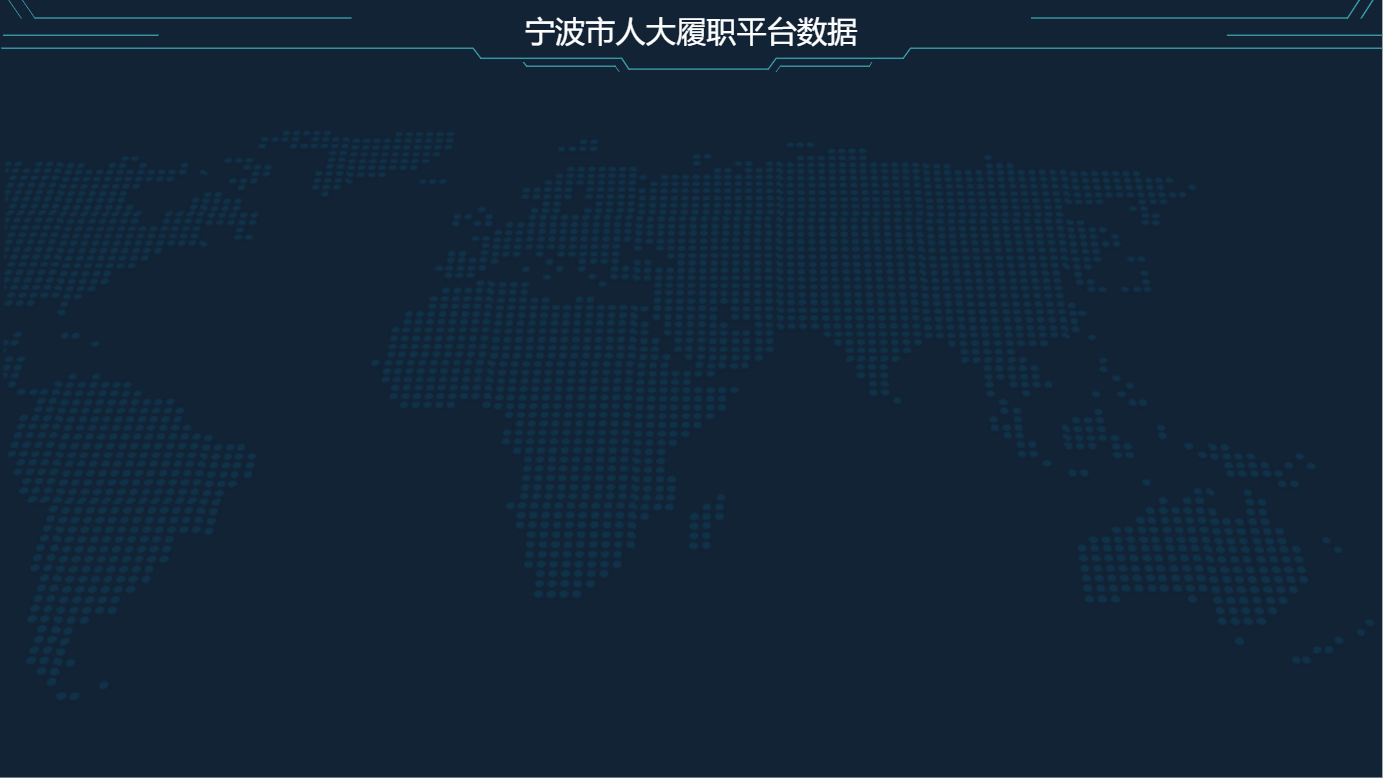
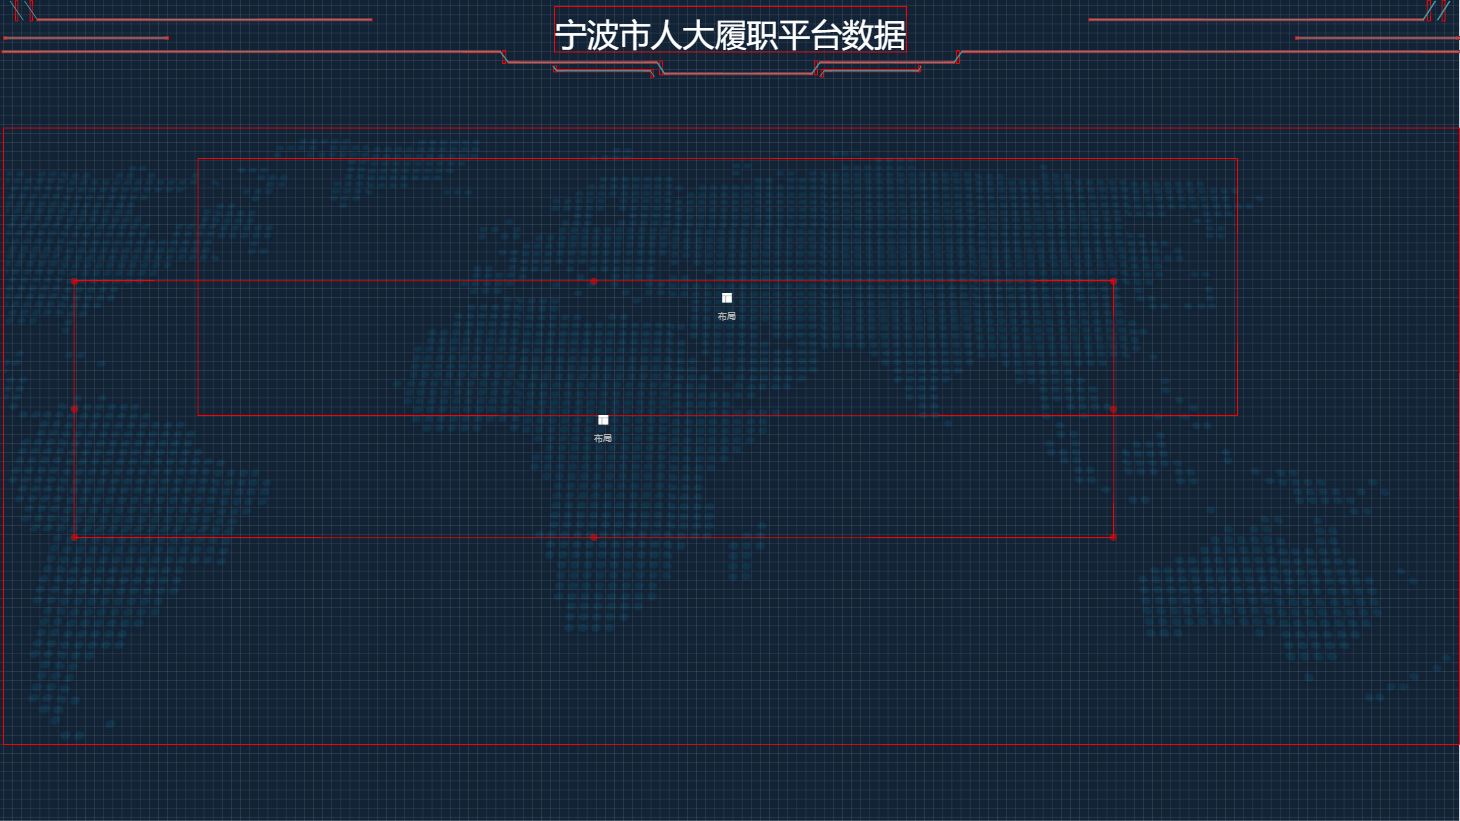
视图渲染

diff --git a/Front/src/views/UnityFrontView/UnityFrontView.vue b/Front/src/views/UnityFrontView/UnityFrontView.vue
@@ -1,5 +1,8 @@
 <template>
-    <div class="UnityFrontView" :class="{preview:airforce.UnityFrontView.preview}">
+    <div class="UnityFrontView" :class="{
+        preview:airforce.UnityFrontView.preview,
+        cursorMove:airforce.UnityFrontView.cursorMove,
+    }">
         <unity-front-layout-title title="场景视图"></unity-front-layout-title>
         <div class="UnityFrontViewContent" ref="UnityFrontViewContent" id="UnityFrontViewContent"
              v-dragdrop dragdrop=".UnityFrontViewContent"
@@ -62,92 +65,13 @@
         name: "UnityFrontView",
         components:{ UnityFrontLayoutTitle, OnContextMenu, Range, XButton, ProjectGridItem },
         methods:{
-            getData(data,ev){
-                let publicStyle = {
-                    transform:"matrix(1, 0, 0, 1, 0, 0)",
-                    borderRadius:"0 0 0 0",
-                };
-                switch (data.info.type) {
-                    case "layout":
-                        data = {
-                            ...data,
-                            info:{
-                                ...data.info,
-                                style:{
-                                    ...publicStyle
-                                }
-                            },
-                        };
-                        break;
-                    case "text":
-                        data = {
-                            ...data,
-                            info:{
-                                ...data.info,
-                                style:{
-                                    textAlign: "left",
-                                    color: "#ffffff",
-                                    wordWrap: "break-word",
-                                    fontSize: "18px",
-                                    ...publicStyle
-                                }
-                            },
-                        };
-                        break;
-                    case "images":
-                        data = {
-                            ...data,
-                            info:{
-                                ...data.info,
-                                url:require("@/assets/logo.png"),
-                                style:{
-                                    opacity:1,
-                                    ...publicStyle
-                                },
-                            },
-                        };
-                        break;
-                    case "svg":
-                        data = {
-                            ...data,
-                            info:{
-                                ...data.info,
-                                viewBox:"0 0 1024 1024",
-                                style:{
-                                    fill:"#fff",
-                                    stroke:"#fff",
-                                    strokeWidth:0,
-                                    ...publicStyle
-                                }
-                            },
-                        };
-                        break;
-                    case "rect":
-                        data = {
-                            ...data,
-                            info:{
-                                ...data.info,
-                                style:{
-                                    backgroundColor: "#fff",
-                                    borderWidth:0,
-                                    border: "0px solid",
-                                    borderColor:"#fff",
-                                    backgroundImage:"linear-gradient(to right, rgba(0,0,0,0), rgba(0,0,0,0))",
-                                    ...publicStyle
-                                }
-                            },
-                        };
-                        break;
-                };
-                return data;
-            },
             drop(ev) {
                 try {
                     let data = JSON.parse(ev.dataTransfer.getData("data"));
                     let n = 300;
-                    let id = Date.now().toString()+parseInt(Math.random()*100000);
+                    let id = this.$utils.getId();
                     let component = _.cloneDeep(this.airforce.UnityFrontView.component);
-                    component.push(this.getData({
+                    component.push(this.$utils.getData({
                         id,
                         operate:false,
                         left:parseInt((ev.layerX - n/2)),
@@ -285,12 +209,35 @@
                 );
             }
             &:before{
-                //content: "";
-                //.line(90deg);
+                content: "";
+                .line(90deg);
             }
             &:after{
-                //content: "";
-                //.line(0deg);
+                content: "";
+                .line(0deg);
+            }
+        }
+        &.cursorMove{
+            &/deep/ .UnityFrontViewContent{
+                cursor: move;
+                &:before{
+                    background-image: none !important;
+                    position: absolute;
+                    left: 0;
+                    top: 0;
+                    width: 100%;
+                    height: 100%;
+                    z-index: 1000000000000000000;
+                }
+                &:after{
+                    background-image: none !important;
+                    position: absolute;
+                    left: 0;
+                    top: 0;
+                    width: 100%;
+                    height: 100%;
+                    z-index: 1000000000000000000;
+                }
             }
         }
         &.preview{

diff --git a/Front/src/utils/index.js b/Front/src/utils/index.js
@@ -74,5 +74,95 @@ export default {
      */
     ProjectList(item){
         console.log(item)
-    }
+    },
+
+    /**
+     * 获取临时id
+     */
+    getId(){
+        return Date.now().toString()+parseInt(Math.random()*100000);
+    },
+
+    /**
+     * 获取数据
+     */
+    getData(data){
+        let publicStyle = {
+            transform:"matrix(1, 0, 0, 1, 0, 0)",
+            borderRadius:"0 0 0 0",
+        };
+        switch (data.info.type) {
+            case "layout":
+                data = {
+                    ...data,
+                    info:{
+                        ...data.info,
+                        style:{
+                            ...publicStyle
+                        }
+                    },
+                };
+                break;
+            case "text":
+                data = {
+                    ...data,
+                    info:{
+                        ...data.info,
+                        style:{
+                            textAlign: "left",
+                            color: "#ffffff",
+                            wordWrap: "break-word",
+                            fontSize: "18px",
+                            ...publicStyle
+                        }
+                    },
+                };
+                break;
+            case "images":
+                data = {
+                    ...data,
+                    info:{
+                        ...data.info,
+                        url:require("@/assets/logo.png"),
+                        style:{
+                            opacity:1,
+                            ...publicStyle
+                        },
+                    },
+                };
+                break;
+            case "svg":
+                data = {
+                    ...data,
+                    info:{
+                        ...data.info,
+                        viewBox:"0 0 1024 1024",
+                        style:{
+                            fill:"#fff",
+                            stroke:"#fff",
+                            strokeWidth:0,
+                            ...publicStyle
+                        }
+                    },
+                };
+                break;
+            case "rect":
+                data = {
+                    ...data,
+                    info:{
+                        ...data.info,
+                        style:{
+                            backgroundColor: "#fff",
+                            borderWidth:0,
+                            border: "0px solid",
+                            borderColor:"#fff",
+                            backgroundImage:"linear-gradient(to right, rgba(0,0,0,0), rgba(0,0,0,0))",
+                            ...publicStyle
+                        }
+                    },
+                };
+                break;
+        };
+        return data;
+    },
 }

diff --git a/Front/src/components/OnContextMenu.vue b/Front/src/components/OnContextMenu.vue
@@ -31,6 +31,7 @@
                                 ]
                             }else {
                                 this.menus = [
+                                    {name:"复制",type:"copy"},
                                     {name:"删除",type:"delete"},
                                     ...this.list,
                                 ]
@@ -78,6 +79,17 @@
                                 this.action({moduleName:"UnityFrontView", goods:{component:null}});
                                 this.action({moduleName:"UnityFrontView", goods:{component:[]}});
                             }
+                            break;
+                        case "copy":
+                            let component = _.cloneDeep(this.airforce.UnityFrontView.component);
+                            component = component.map(e=>({...e,operate:false}));
+                            let targetData = _.cloneDeep(this.targetData);
+                            targetData.id = this.$utils.getId();
+                            targetData.left += 5;
+                            targetData.top += 5;
+                            component.push(this.$utils.getData(targetData));
+                            this.action({moduleName:"UnityFrontView", goods:{component:null}});
+                            this.action({moduleName:"UnityFrontView", goods:{component:component}});
                             break;
                     }
                 }catch (e) {

diff --git a/Front/src/components/layout/UnityFrontLayoutMenuItem.vue b/Front/src/components/layout/UnityFrontLayoutMenuItem.vue
@@ -34,6 +34,15 @@
                     event.stopPropagation();
                     this.save();
                 }
+                if(event.keyCode === 32){
+                    this.airforce.input({cursorMove:true},'UnityFrontView');
+                }
+            };
+
+            document.onkeyup = (event)=>{
+                if(event.keyCode === 32){
+                    this.airforce.input({cursorMove:false},'UnityFrontView');
+                }
             }
         },
         methods:{

diff --git a/Front/src/assets/less/style.less b/Front/src/assets/less/style.less
@@ -34,6 +34,13 @@ ul,li,p,a{
   border-radius: 0;
   border:none;
 }
+.UnityFront{
+  font-size: 12px;
+  *{
+    font-size: 12px;
+  }
+}
+
 .ZXDialogAlert{
   .weui-mask{
     display: none;

diff --git a/Front/src/dashboard/Test/bb.vue b/Front/src/dashboard/Test/bb.vue
@@ -1,6 +1,8 @@
 <template>
     <div class="bb">
         <h1>履职统计</h1>
+        <h2>履职统计</h2>
+        <h3>履职统计</h3>
     </div>
 </template>
 

diff --git a/Front/src/data/index.js b/Front/src/data/index.js
@@ -64,5 +64,6 @@ export const UnityFrontView = {
     height:1080,
     title:null,
     preview:false,
+    cursorMove:false,
     auto:false
 };
